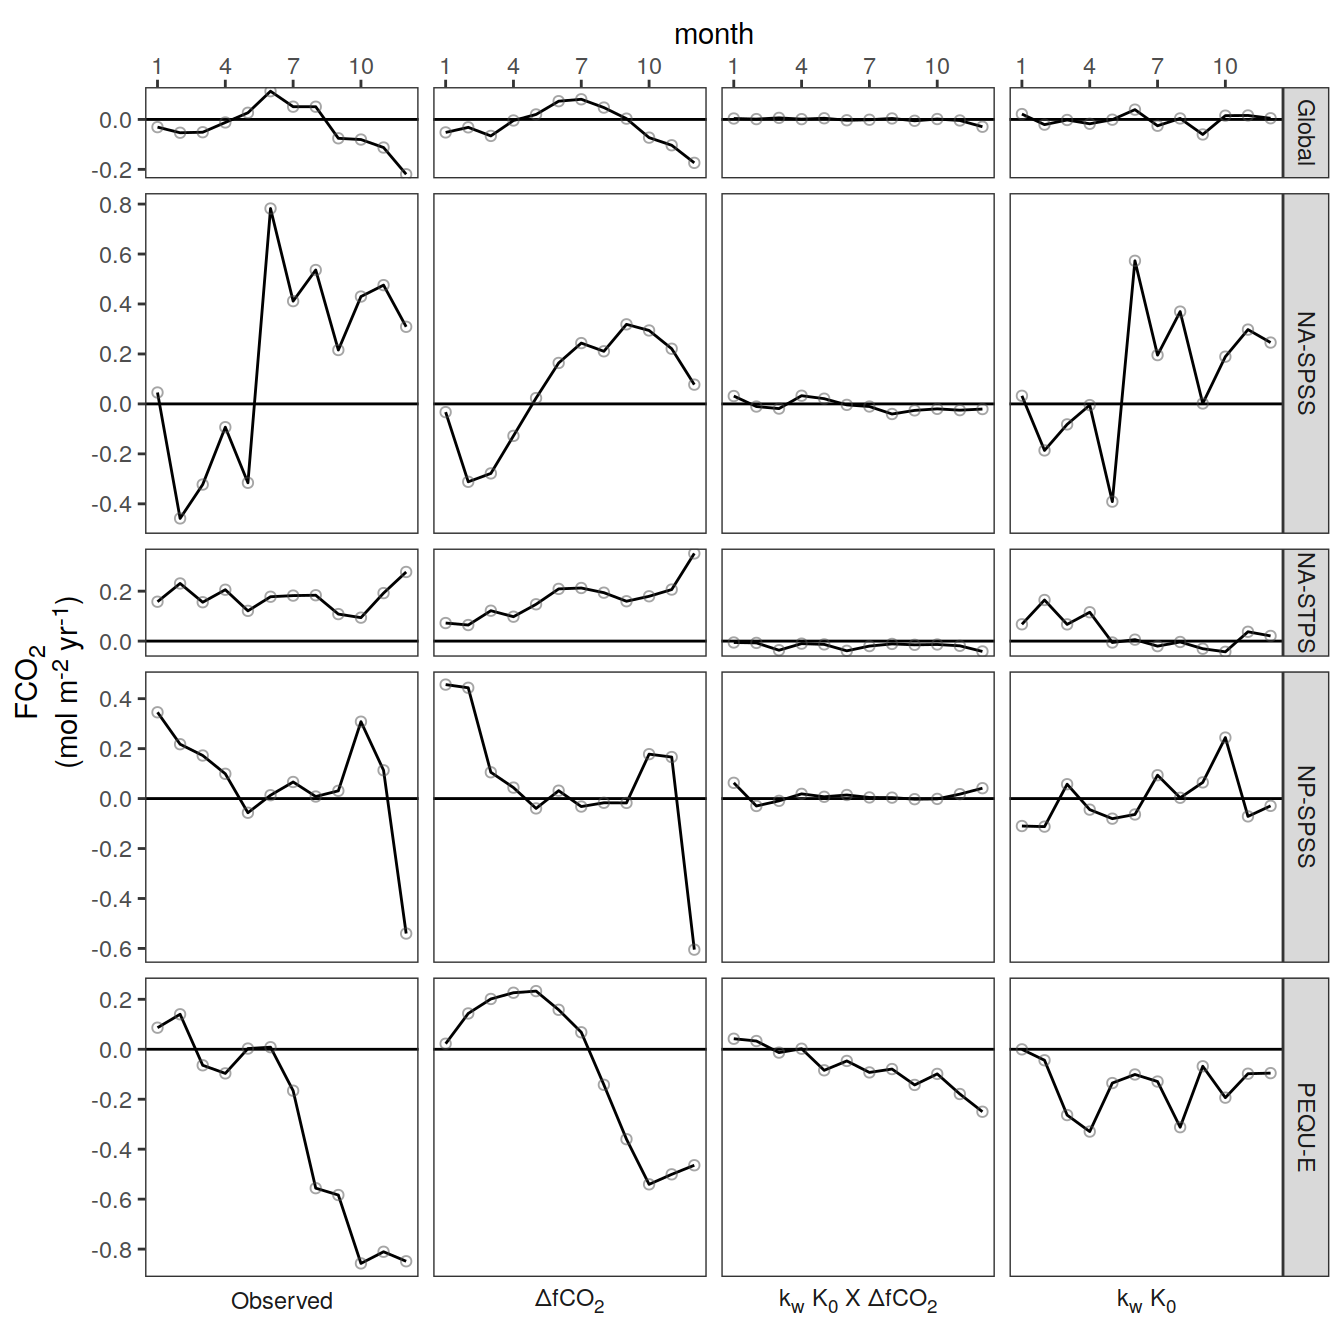
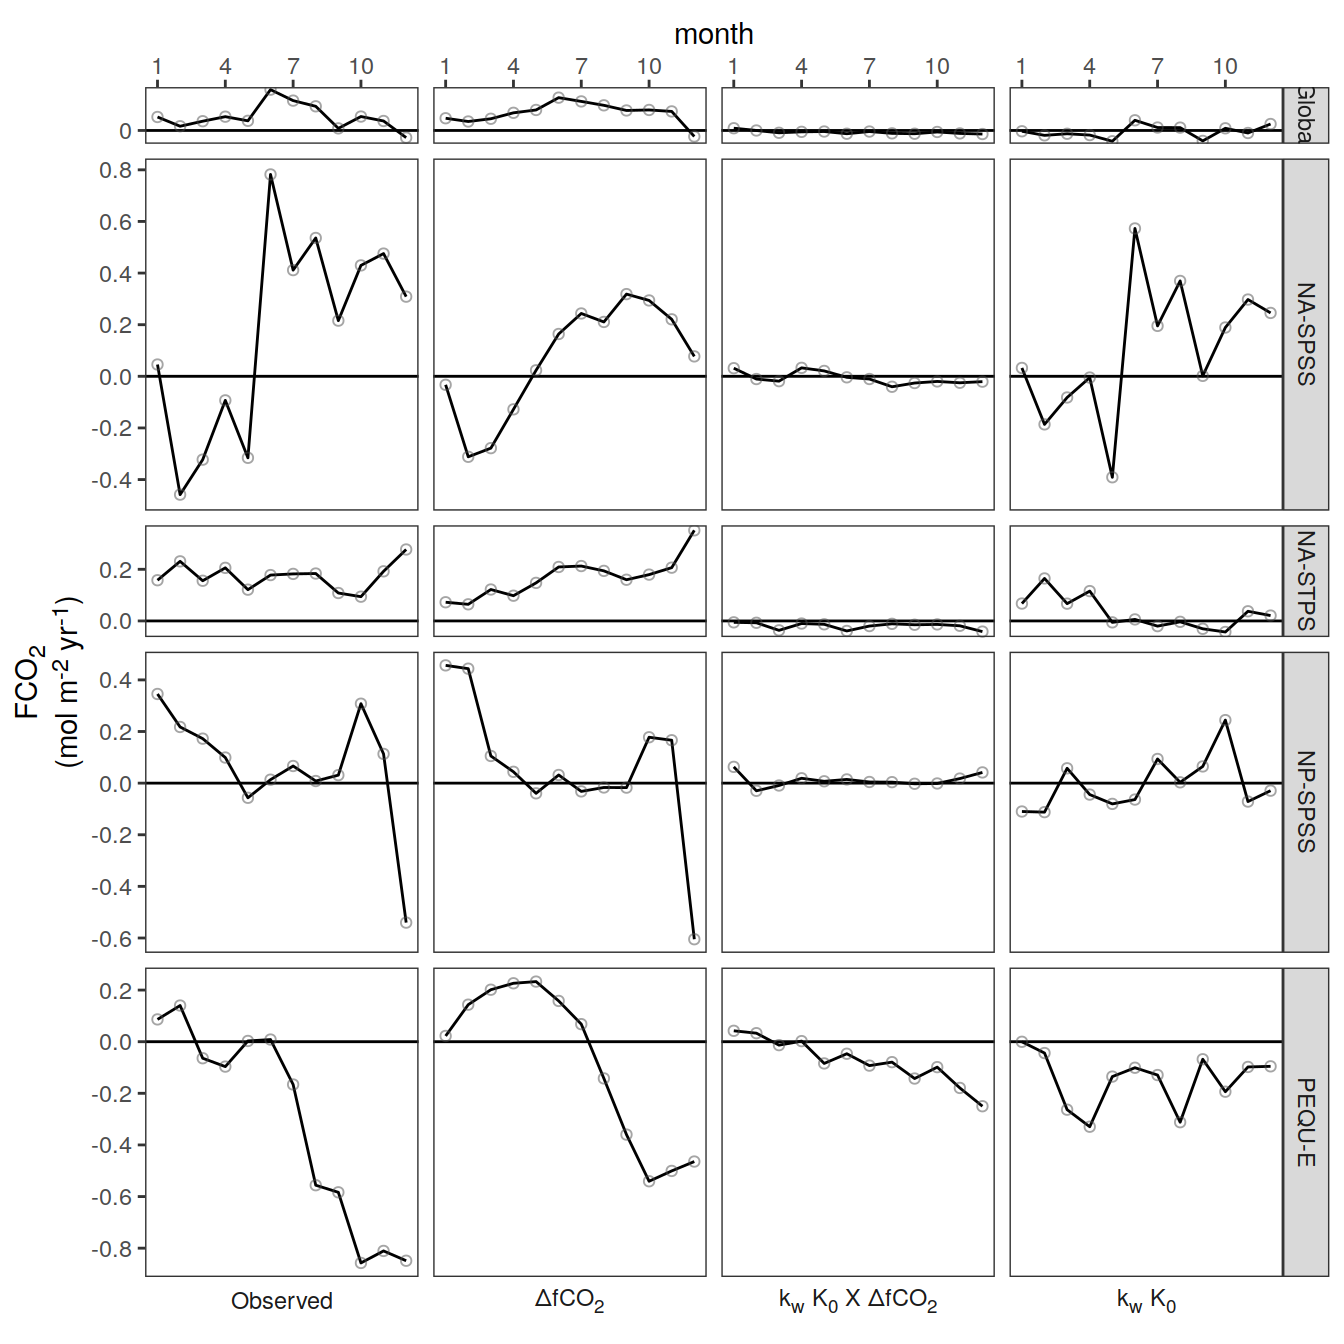
Build site.

diff --git a/docs/SOM_FFN.html b/docs/SOM_FFN.html
@@ -445,7 +445,7 @@ div.tocify {
 
 <h1 class="title toc-ignore">SOM_FFN</h1>
 <h4 class="author">Jens Daniel Müller</h4>
-<h4 class="date">26 June, 2024</h4>
+<h4 class="date">01 July, 2024</h4>
 
 </div>
 
@@ -474,7 +474,7 @@ class="glyphicon glyphicon-ok text-success" aria-hidden="true"></span>
 <div class="tab-content">
 <div id="summary" class="tab-pane fade in active">
 <p>
-<strong>Last updated:</strong> 2024-06-26
+<strong>Last updated:</strong> 2024-07-01
 </p>
 <p>
 <strong>Checks:</strong> <span
@@ -606,15 +606,15 @@ project makes it easier to run your code on other machines.</p>
 <div class="panel panel-default">
 <div class="panel-heading">
 <p class="panel-title">
-<a data-toggle="collapse" data-parent="#workflowr-checks" href="#strongRepositoryversionstrongahrefhttpsgithubcomjensdanielmuellerheatwaveco2flux2023tree3c17a8e6a8490b5d8f01e6269b00c50995117a17targetblank3c17a8ea">
+<a data-toggle="collapse" data-parent="#workflowr-checks" href="#strongRepositoryversionstrongahrefhttpsgithubcomjensdanielmuellerheatwaveco2flux2023treecb93db46f5e5309f9be322e688f522dcc8d45aactargetblankcb93db4a">
 <span class="glyphicon glyphicon-ok text-success"
 aria-hidden="true"></span> <strong>Repository version:</strong>
-<a href="https://github.com/jens-daniel-mueller/heatwave_co2_flux_2023/tree/3c17a8e6a8490b5d8f01e6269b00c50995117a17" target="_blank">3c17a8e</a>
+<a href="https://github.com/jens-daniel-mueller/heatwave_co2_flux_2023/tree/cb93db46f5e5309f9be322e688f522dcc8d45aac" target="_blank">cb93db4</a>
 </a>
 </p>
 </div>
 <div
[2 lines of base64/hex data omitted]
 class="panel-collapse collapse">
 <div class="panel-body">
 <p>
@@ -624,7 +624,7 @@ reproducibility.
 </p>
 <p>
 The results in this page were generated with repository version
-<a href="https://github.com/jens-daniel-mueller/heatwave_co2_flux_2023/tree/3c17a8e6a8490b5d8f01e6269b00c50995117a17" target="_blank">3c17a8e</a>.
+<a href="https://github.com/jens-daniel-mueller/heatwave_co2_flux_2023/tree/cb93db46f5e5309f9be322e688f522dcc8d45aac" target="_blank">cb93db4</a>.
 See the <em>Past versions</em> tab to see a history of the changes made
 to the R Markdown and HTML files.
 </p>
@@ -643,9 +643,6 @@ Ignored files:
     Ignored:    .Rproj.user/
     Ignored:    data
     Ignored:    output/
-
-Unstaged changes:
-    Modified:   code/Workflowr_project_managment.R
 
 </code></pre>
 <p>
@@ -691,6 +688,23 @@ Message
 </tr>
 </thead>
 <tbody>
+<tr>
+<td>
+html
+</td>
+<td>
+<a href="https://rawcdn.githack.com/jens-daniel-mueller/heatwave_co2_flux_2023/f1954bc7d14844b6b3c00f59cf78a40949f20dae/docs/SOM_FFN.html" target="_blank">f1954bc</a>
+</td>
+<td>
+jens-daniel-mueller
+</td>
+<td>
+2024-06-27
+</td>
+<td>
+Build site.
+</td>
+</tr>
 <tr>
 <td>
 html
@@ -5395,8 +5409,8 @@ jens-daniel-mueller
 
 gc()</code></pre>
 <pre><code>             used    (Mb) gc trigger    (Mb)   max used    (Mb)
-Ncells    3208806   171.4   57557708  3074.0  175652181  9380.9
-Vcells 1976513844 15079.7 5034243955 38408.3 5034243955 38408.3</code></pre>
+Ncells    3208808   171.4   57555444  3073.8  175645274  9380.5
+Vcells 1976513936 15079.7 5034244047 38408.3 5034244047 38408.3</code></pre>
 <pre class="r"><code>map +
   geom_tile(data = pco2_product_map_annual_fCO2_decomposition %&gt;%
               filter(year == 2023), aes(lon, lat, fill = resid)) +
@@ -5587,8 +5601,8 @@ jens-daniel-mueller
 </div>
 <pre class="r"><code>gc()</code></pre>
 <pre><code>             used    (Mb) gc trigger    (Mb)   max used    (Mb)
-Ncells    3229608   172.5   46046167  2459.2  175652181  9380.9
-Vcells 2181711404 16645.2 5034243955 38408.3 5034243955 38408.3</code></pre>
+Ncells    3229610   172.5   46044356  2459.1  175645274  9380.5
+Vcells 2181711496 16645.2 5034244047 38408.3 5034244047 38408.3</code></pre>
 <pre class="r"><code>pco2_product_map_monthly_anomaly %&gt;%
   filter(year == 2023) %&gt;%
   write_csv(
@@ -20441,7 +20455,9 @@ jens-daniel-mueller
 <pre class="r"><code>biome_mask &lt;-
   bind_rows(
     biome_mask,
-    biome_mask %&gt;% mutate(biome = &quot;Global&quot;)
+    biome_mask %&gt;% 
+      filter(!str_detect(biome, &quot;SO-&quot;)) %&gt;% 
+      mutate(biome = &quot;Global&quot;)
   )
 
 pco2_product_biome_monthly_fCO2_decomposition &lt;-
